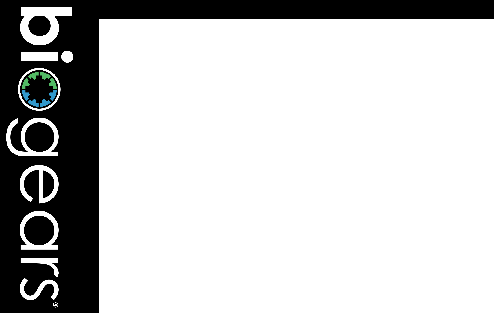
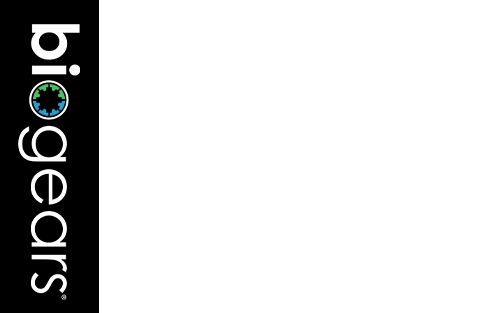
f/sawhite-bugs - Fixed a assert issue in bg-cli and improved Installer Images

Changed region(s): [[0.0, 0.0, 0.1822, 0.9776], [0.1822, 0.0, 1.0, 0.0863]]

diff --git a/projects/cli/src/utils/Arguments.cpp b/projects/cli/src/utils/Arguments.cpp
@@ -219,7 +219,7 @@ void Arguments::set_required_keywords(std::vector<std::string> keys)
 //-----------------------------------------------------------------------------
 auto Arguments::required_keywords() const -> std::vector<std::string>
 {
-  assert(!_default_keywords.empty());
+  assert(!_required_keywords.empty());
   return _required_keywords;
 }
 //-----------------------------------------------------------------------------
